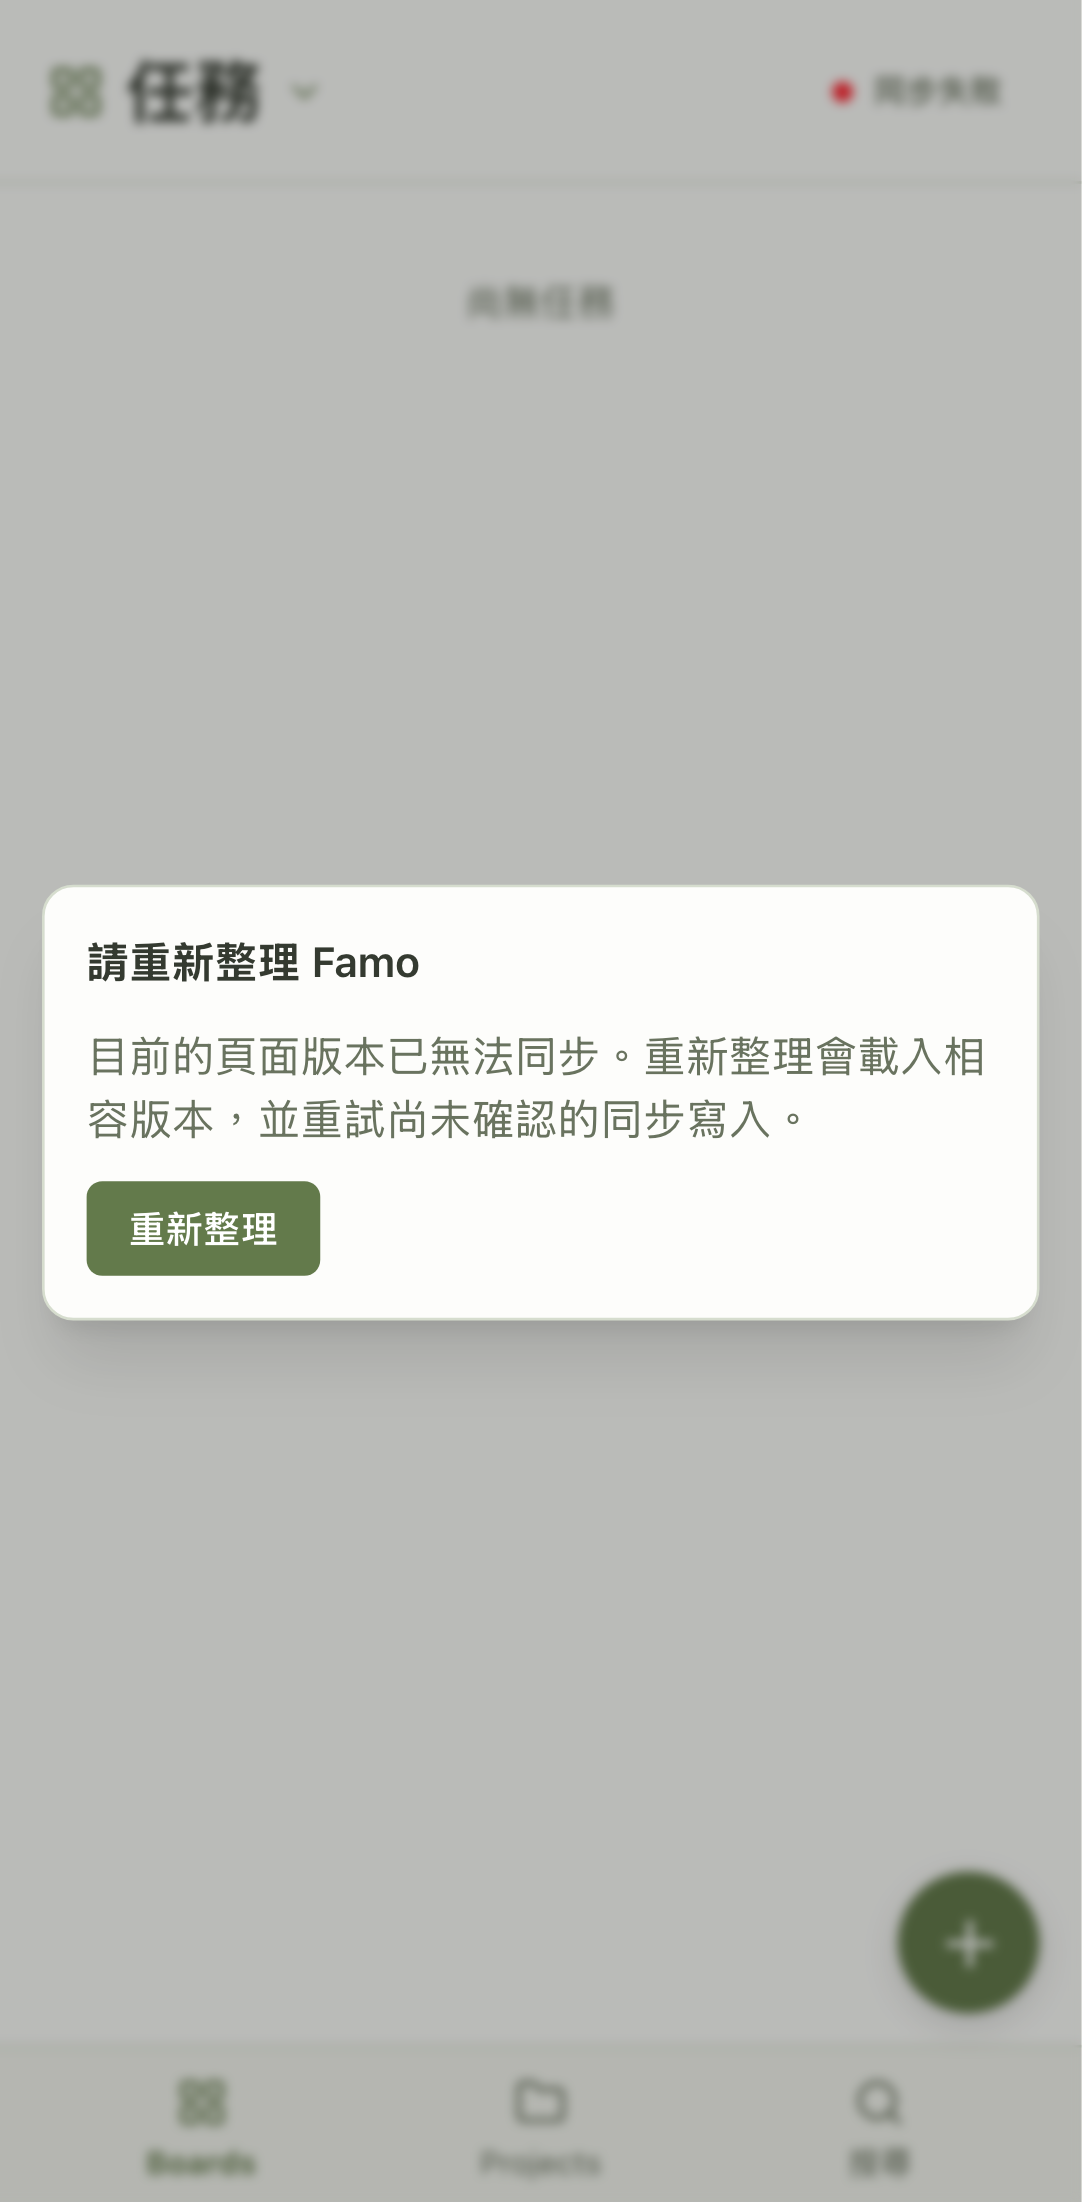
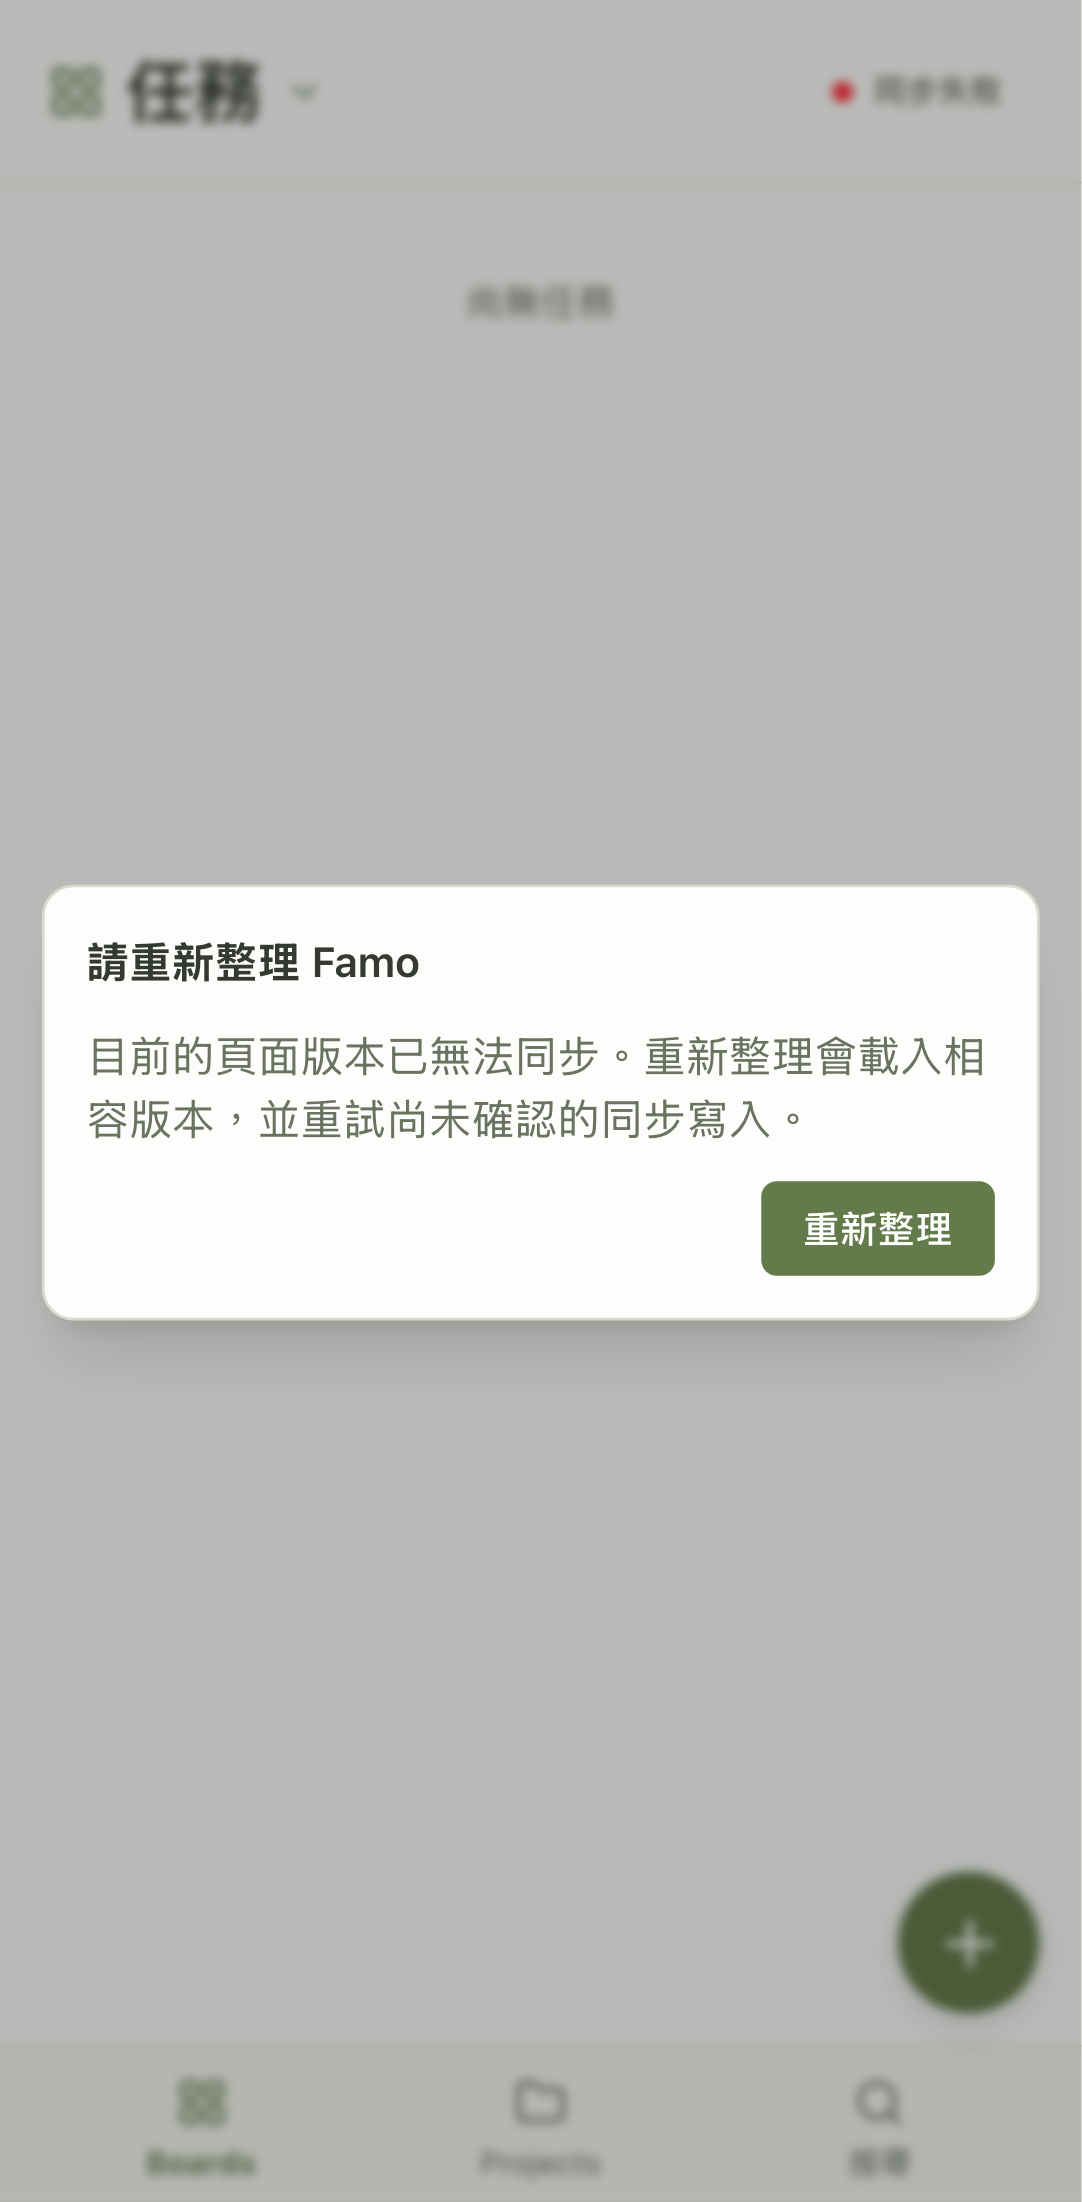
fix: align the reload dialog action to the right

Changed region(s): [[0.061, 0.525, 0.305, 0.5867], [0.7015, 0.525, 0.915, 0.5867]]

diff --git a/web/src/components/cloud-reload-notice.tsx b/web/src/components/cloud-reload-notice.tsx
@@ -38,7 +38,7 @@ export function CloudReloadNotice() {
           <DialogDescription className="text-muted-foreground">
             {t('reloadWebRequiredDescription')}
           </DialogDescription>
-          {reload}
+          <div className="flex justify-end">{reload}</div>
         </DialogContent>
       </Dialog>
     )
